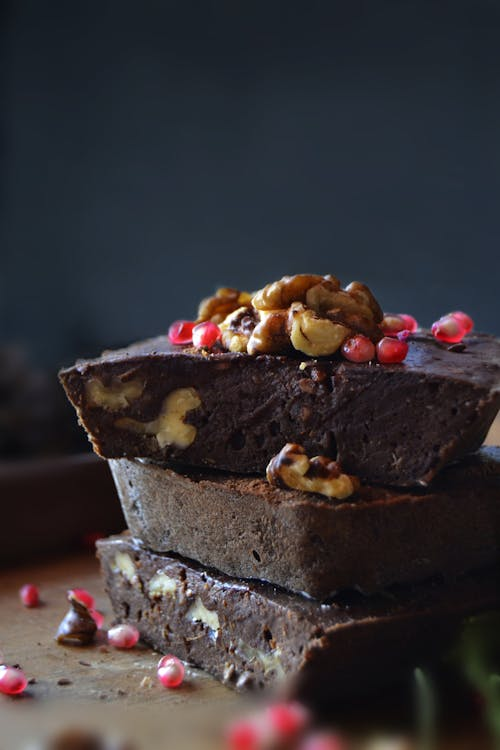
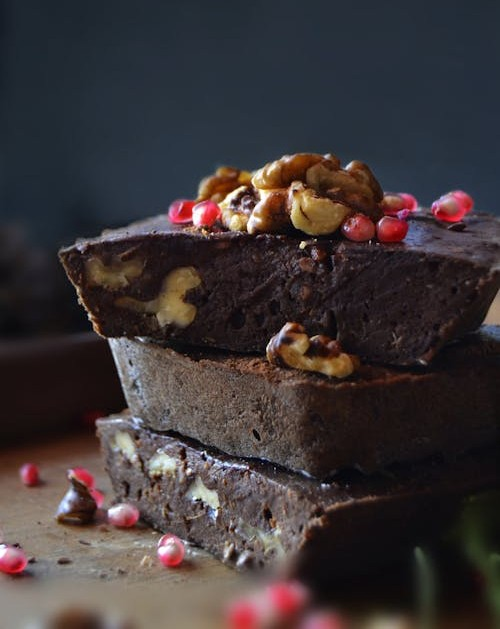
card image replaced

diff --git a/index.html b/index.html
@@ -12,7 +12,7 @@
             top: 50%;
             left: 10px;
             transform: translateY(-50%);
-            z-index: 4; /* Ensure buttons are always on top */
+            z-index: 4; 
         }
         .side-buttons button {
             cursor: pointer;
@@ -28,7 +28,7 @@
             background-color: black;
             padding: 20px;
             position: relative; 
-            z-index: 1; /* Ensure menu is behind the buttons */
+            z-index: 1; 
         }
         .menu .line {
             display: flex;
@@ -103,8 +103,8 @@
                 <p>Melted Dreams</p>
             </div>
             <div class="card">
-                <img src="img/carrd images.jpeg" alt="New Dessert Image">
-                <p>New Dessert</p>
+                <img src="img/crds image.jpg" alt="New Card Image 1">
+                <p>New Card 1</p>
             </div>
            
         </div>
@@ -145,10 +145,6 @@
                 <img src="img/DESSERT IMAGE 3.avif" alt="Dessert Image 3">
                 <p>Rosy Strawberry Treat</p>
            
-            </div>
-            <div class="card">
-                <img src="img/crds image.jpg" alt="New Card Image 1">
-                <p>New Card 1</p>
             </div>
             <div class="card">
                 <img src="img/cards images.jpg" alt="New Card Image 2">
